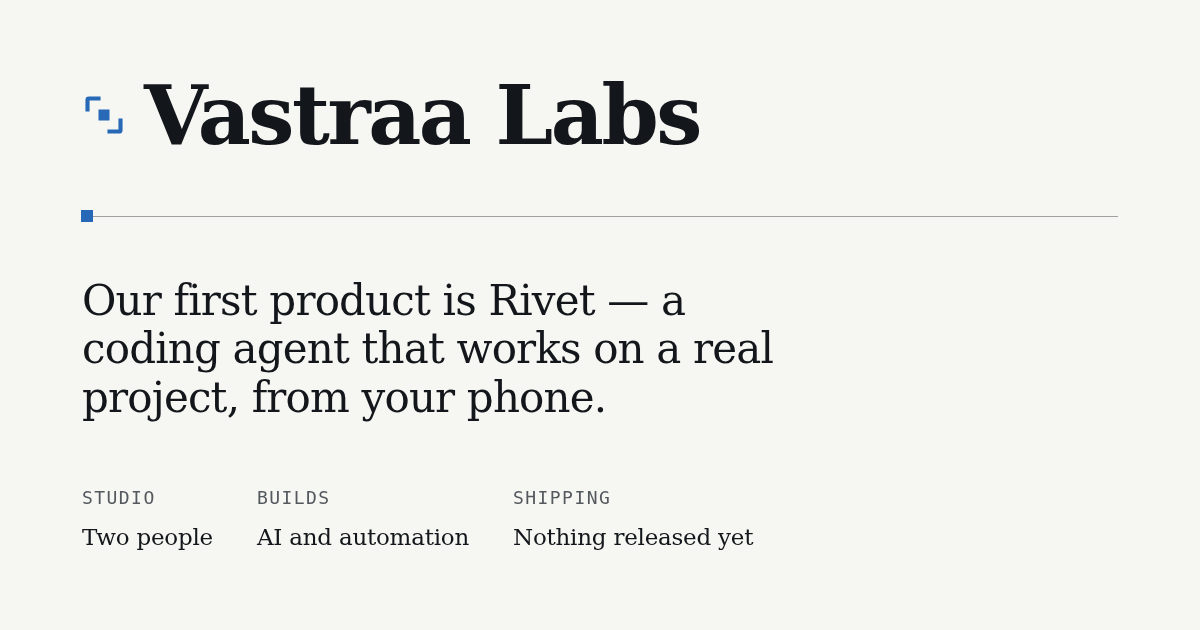
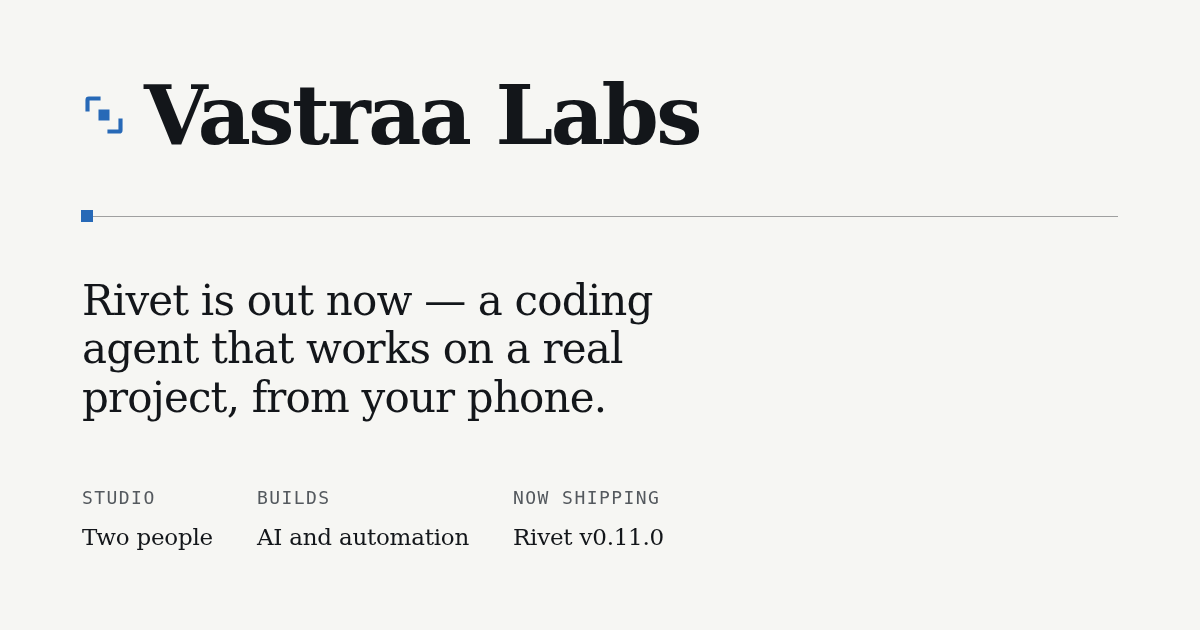
Rivet is released: update the site to say so
Read the rivet repository and its GitHub Releases before touching anything.
Rivet is at v0.11.0, released 2026-10-04, with a real signed APK on the release
page. The site was still telling visitors it was in development, and two lines
were now false.

- status.label: "In development" -> "v0.11.0 — out now"
- status.cta: "Follow the build" -> "Get Rivet", pointing at releases/latest
  rather than the repository root, because that is where the APK actually is.
  The repo link stays as a separate "Source" button.
- Hero fact "Shipping: Nothing released yet" -> "Rivet v0.11.0"
- Lab row now reads status.label instead of a hardcoded string, so the two
  places can no longer disagree.
- Lab row 2 "Nothing published yet" -> "Nothing else yet" (Rivet is published)
- Lab subtitle "One of them is becoming a product" -> "One of them shipped."
- og.png regenerated; it carried the old "Nothing released yet" copy.

Verified: 163/163 audit, 0 slop failures, tokens resolve, TSC clean, and no
occurrence of the old copy left anywhere in src/ or scripts/.

Changed region(s): [[0.0617, 0.4524, 0.6475, 0.6032], [0.4317, 0.8444, 0.6475, 0.8746], [0.4317, 0.7841, 0.555, 0.8143]]

diff --git a/src/sections/Lab.tsx b/src/sections/Lab.tsx
@@ -1,5 +1,6 @@
 import { Icon } from '../components/Icon';
 import { isSet, links } from '../data/site';
+import { status } from '../data/rivet';
 
 export function Lab() {
   return (
@@ -9,7 +10,7 @@ export function Lab() {
           <h2 className="sec__title sec__title--sm" id="lab-title">
             Lab
           </h2>
-          <p className="sec__line">Experiments. One of them is becoming a product.</p>
+          <p className="sec__line">Experiments. One of them shipped.</p>
         </div>
 
         <ul className="lab">
@@ -24,9 +25,9 @@ export function Lab() {
                 <Icon name="phone" size={18} />
               </span>
               <span className="lab__name">Rivet</span>
-              <span className="lab__state" data-state="building">
+              <span className="lab__state" data-state="released">
                 <span className="dot" aria-hidden="true" />
-                In development
+                {status.label}
               </span>
               <Icon name="arrow" size={16} className="lab__go" />
             </a>
@@ -36,7 +37,7 @@ export function Lab() {
             <span className="lab__icon">
               <Icon name="flask" size={18} />
             </span>
-            <span className="lab__name">Nothing published yet</span>
+            <span className="lab__name">Nothing else yet</span>
             <span className="lab__state" data-state="empty">
               —
             </span>

diff --git a/src/sections/CurrentWork.tsx b/src/sections/CurrentWork.tsx
@@ -46,6 +46,17 @@ export function CurrentWork() {
                 <span className="dot" aria-hidden="true" />
                 {status.label}
               </p>
+              {isSet(links.release) && (
+                <a
+                  className="btn btn--quiet"
+                  href={links.release.href}
+                  target="_blank"
+                  rel="noreferrer noopener"
+                >
+                  <Icon name="package" size={16} />
+                  {status.cta}
+                </a>
+              )}
               {isSet(links.rivet) && (
                 <a
                   className="btn btn--quiet"
@@ -54,7 +65,7 @@ export function CurrentWork() {
                   rel="noreferrer noopener"
                 >
                   <Icon name="github" size={16} />
-                  {status.cta}
+                  Source
                 </a>
               )}
             </div>

diff --git a/src/data/site.ts b/src/data/site.ts
@@ -24,6 +24,9 @@ export const links = {
   x: { label: 'X', href: 'https://x.com/Amardeep3307' } as ExternalLink,
   contact: { label: 'Email', href: 'mailto:vastraalabs.dev@gmail.com' } as ExternalLink,
   rivet: { label: 'Rivet', href: 'https://github.com/Kaiser0733/rivet' } as ExternalLink,
+  // The APK is published on this release page, so the download CTA goes here
+  // rather than at the repository root.
+  release: { label: 'Download', href: 'https://github.com/Kaiser0733/rivet/releases/latest' } as ExternalLink,
 } as const;
 
 export const isSet = (l: ExternalLink): l is ExternalLink & { href: string } => l.href !== null;

diff --git a/src/sections/Hero.tsx b/src/sections/Hero.tsx
@@ -5,7 +5,7 @@ import { isSet, links, studio } from '../data/site';
 const FACTS = [
   { icon: 'signal' as const, k: 'Studio', v: 'Two people' },
   { icon: 'package' as const, k: 'Builds', v: 'AI and automation' },
-  { icon: 'flask' as const, k: 'Shipping', v: 'Nothing released yet' },
+  { icon: 'phone' as const, k: 'Shipping', v: 'Rivet v0.11.0' },
 ];
 
 export function Hero() {

diff --git a/src/data/rivet.ts b/src/data/rivet.ts
@@ -43,6 +43,6 @@ export const loop = [
 ] as const;
 
 export const status = {
-  label: 'In development',
-  cta: 'Follow the build',
+  label: 'v0.11.0 — out now',
+  cta: 'Get Rivet',
 } as const;

diff --git a/src/styles/sections.css b/src/styles/sections.css
@@ -831,8 +831,8 @@
   white-space: nowrap;
 }
 
-.lab__state[data-state='building'] {
-  color: var(--ink-2);
+.lab__state[data-state='released'] {
+  color: var(--live);
 }
 
 .about {
